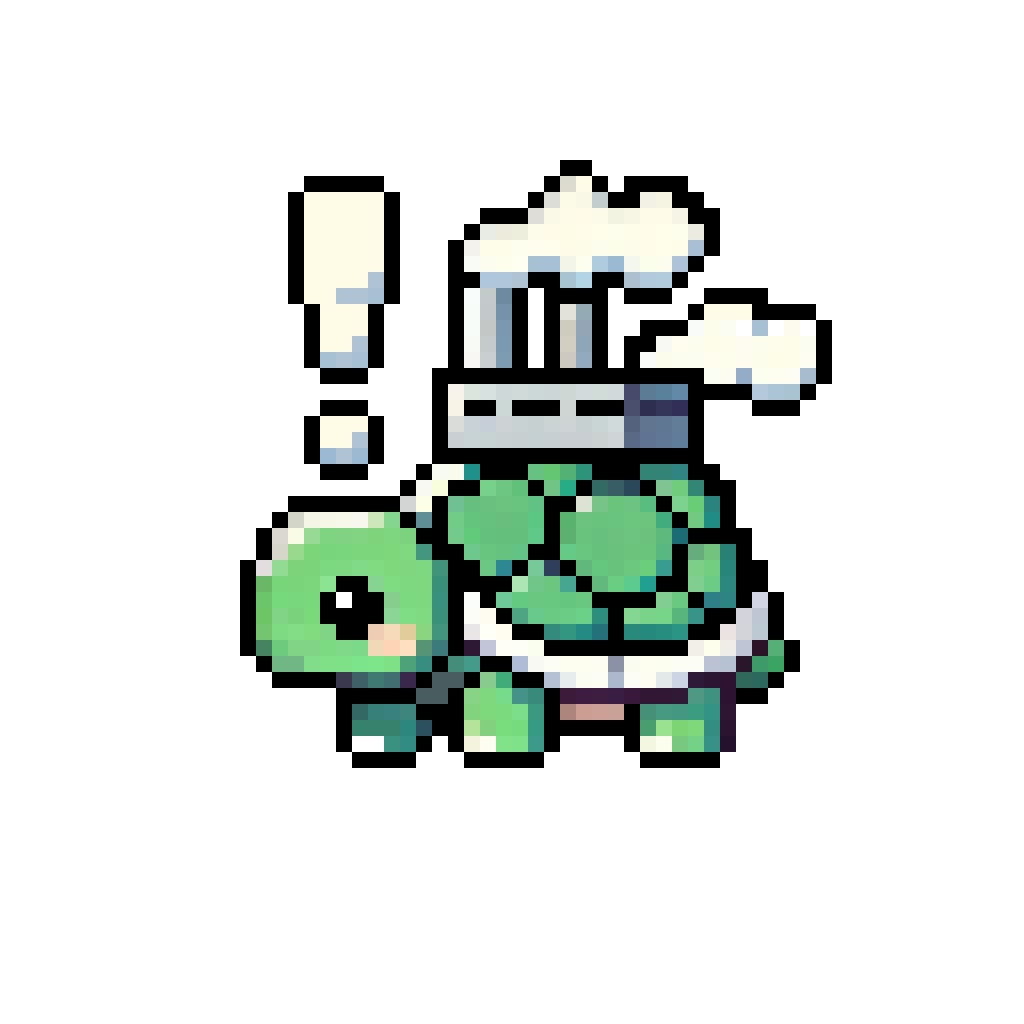
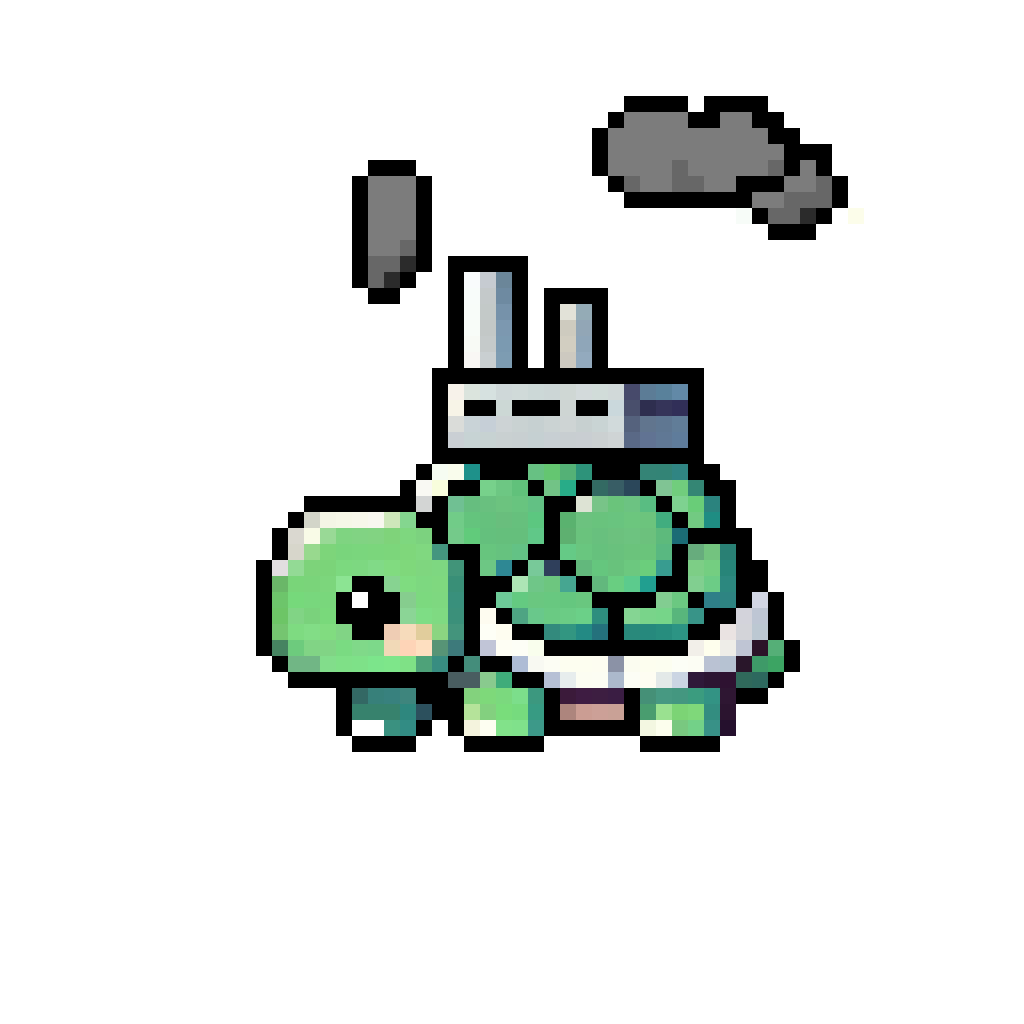
新增操弄測試

Changed region(s): [[0.2188, 0.0938, 0.8438, 0.75], [0.5938, 0.6562, 0.7188, 0.75], [0.5, 0.6562, 0.5312, 0.6875]]

diff --git a/src/components/AnotherFormPage.jsx b/src/components/AnotherFormPage.jsx
@@ -1,0 +1,111 @@
+import React, { useRef, useState } from "react";
+import MC from "../assets/MC.json";
+import projectSetting from "../assets/Setting";
+
+const AnotherFormPage = ({ addInfo, nextStage }) => {
+    const [lock, setLock] = useState(projectSetting.lockPage);
+    const [responses, setResponses] = useState({});
+    const examRef = useRef({
+        petRelation: [0, 0],
+    });
+    const handleSubmit = () => {
+        addInfo("petRelation", examRef.current.petRelation);
+        nextStage();
+    };
+
+    const checkFinished = () => {
+        if (!examRef.current.petRelation.includes(0)) {
+            setLock(false);
+        } else {
+            console.log(examRef.current);
+        }
+    };
+
+    const handleResponseChange = (name, statementIndex, value) => {
+        examRef.current[name][statementIndex] = value;
+        setResponses({
+            ...responses,
+            [`${name}_${statementIndex}`]: value,
+        });
+        checkFinished();
+    };
+
+    const LikertOptions = (name, statementIndex) => {
+        return (
+            <>
+                {[...Array(7)].map((_, index) => (
+                    <td
+                        key={index}
+                        className="radio"
+                        onClick={() =>
+                            handleResponseChange(
+                                name,
+                                statementIndex,
+                                index + 1
+                            )
+                        }
+                    >
+                        <input
+                            type="radio"
+                            value={index + 1}
+                            onChange={() =>
+                                handleResponseChange(
+                                    name,
+                                    statementIndex,
+                                    index + 1
+                                )
+                            }
+                            checked={
+                                responses[`${name}_${statementIndex}`] ===
+                                index + 1
+                            }
+                        />
+                    </td>
+                ))}
+            </>
+        );
+    };
+
+    return (
+        <>
+            <div className="ExamPage">
+                {MC.questions.map((section, sectionIndex) => (
+                    <table key={section.name} className="likert">
+                        <thead>
+                            <tr>
+                                <th></th>
+                                <th className="likertHead">非常不同意</th>
+                                <th className="likertHead">不同意</th>
+                                <th className="likertHead">稍微不同意</th>
+                                <th className="likertHead">中立</th>
+                                <th className="likertHead">稍微同意</th>
+                                <th className="likertHead">同意</th>
+                                <th className="likertHead">非常同意</th>
+                            </tr>
+                        </thead>
+                        <tbody>
+                            {section.statements.map(
+                                (statement, statementIndex) => (
+                                    <tr key={statementIndex}>
+                                        <td className="statement">
+                                            {statement}
+                                        </td>
+                                        {LikertOptions(
+                                            section.name,
+                                            statementIndex
+                                        )}
+                                    </tr>
+                                )
+                            )}
+                        </tbody>
+                    </table>
+                ))}
+            </div>
+            <button className="nextBt" onClick={handleSubmit} disabled={lock}>
+                下一步
+            </button>
+        </>
+    );
+};
+
+export default AnotherFormPage;

diff --git a/src/components/LikertScale.jsx b/src/components/LikertScale.jsx
@@ -53,23 +53,26 @@ const LikertScale = ({ examRef, checkFinished }) => {
         <>
             {DV.questions.map((section, sectionIndex) => (
                 <table key={section.name} className="likert">
-                    <tr>
-                        <th></th>
-                        <th className="likertHead">非常不同意</th>
-                        <th className="likertHead">不同意</th>
-                        <th className="likertHead">稍微不同意</th>
-                        <th className="likertHead">中立</th>
-                        <th className="likertHead">稍微同意</th>
-                        <th className="likertHead">同意</th>
-                        <th className="likertHead">非常同意</th>
-                    </tr>
-
-                    {section.statements.map((statement, statementIndex) => (
-                        <tr key={statementIndex}>
-                            <td className="statement">{statement}</td>
-                            {LikertOptions(section.name, statementIndex)}
+                    <thead>
+                        <tr>
+                            <th></th>
+                            <th className="likertHead">非常不同意</th>
+                            <th className="likertHead">不同意</th>
+                            <th className="likertHead">稍微不同意</th>
+                            <th className="likertHead">中立</th>
+                            <th className="likertHead">稍微同意</th>
+                            <th className="likertHead">同意</th>
+                            <th className="likertHead">非常同意</th>
                         </tr>
-                    ))}
+                    </thead>
+                    <tbody>
+                        {section.statements.map((statement, statementIndex) => (
+                            <tr key={statementIndex}>
+                                <td className="statement">{statement}</td>
+                                {LikertOptions(section.name, statementIndex)}
+                            </tr>
+                        ))}
+                    </tbody>
                 </table>
             ))}
         </>

diff --git a/src/components/LearningTestPage.jsx b/src/components/LearningTestPage.jsx
@@ -1,25 +1,22 @@
 import React, { useEffect, useState } from "react";
 import VARK from "../assets/VARK.json";
+import projectSetting from "../assets/Setting";
 
 const VarkQuiz = ({ nextStage, addVARKResults }) => {
     const [answers, setAnswers] = useState(
         Array(VARK.questions.length).fill(null)
     );
     const [result, setResult] = useState({ V: 0, A: 0, R: 0, K: 0 });
-    const [lock, setLock] = useState(true);
+    const [lock, setLock] = useState(projectSetting.lockPage);
 
     const handleSubmit = () => {
-        if (!answers.includes(null)) {
-            const maxScore = Math.max(result.V, result.A, result.R, result.K);
-            const primaryVark = Object.keys(result).find(
-                (key) => result[key] === maxScore
-            );
-            alert(`你的主要學習方式是: ${primaryVark}`);
-            addVARKResults(result);
-            nextStage();
-        } else {
-            alert("請完成所有問題");
-        }
+        const maxScore = Math.max(result.V, result.A, result.R, result.K);
+        const primaryVark = Object.keys(result).find(
+            (key) => result[key] === maxScore
+        );
+        alert(`你的主要學習方式是: ${primaryVark}`);
+        addVARKResults(result);
+        nextStage();
     };
 
     useEffect(() => {

diff --git a/src/assets/Pet1/Pet1.js b/src/assets/Pet1/Pet1.js
@@ -10,13 +10,15 @@ import walk_1 from "./Pet_1_walk_1.png";
 import walk_2 from "./Pet_1_walk_2.png";
 import walk_3 from "./Pet_1_walk_3.png";
 
-// import click_0 from "./Pet_1_click_0.png";
+import click_0 from "./Pet_1_click_0.png";
 import click_1 from "./Pet_1_click_1.png";
 import click_2 from "./Pet_1_click_2.png";
 import click_3 from "./Pet_1_click_3.png";
 import click_4 from "./Pet_1_click_4.png";
 import click_5 from "./Pet_1_click_5.png";
 import click_6 from "./Pet_1_click_6.png";
+import click_7 from "./Pet_1_click_7.png";
+import click_8 from "./Pet_1_click_8.png";
 
 import back_0 from "./Pet_1_back_0.png";
 import back_1 from "./Pet_1_back_1.png";
@@ -24,8 +26,18 @@ import back_1 from "./Pet_1_back_1.png";
 const Pet1 = {
     idleAnime: [idle_0, idle_1, idle_2, idle_3, idle_4, idle_5],
     walkAnime: [walk_0, walk_1, walk_2, walk_3],
-    clickAnime: [click_1, click_2, click_3, click_4, click_5, click_6, click_6],
-    holdAnime: [click_6],
+    clickAnime: [
+        click_0,
+        click_1,
+        click_2,
+        click_3,
+        click_4,
+        click_5,
+        click_6,
+        click_7,
+        click_8,
+    ],
+    holdAnime: [click_8],
     backAnime: [back_0, back_0, back_0, back_1],
 };
 

diff --git a/src/components/Pet.jsx b/src/components/Pet.jsx
@@ -32,6 +32,32 @@ const Pet = ({ connect, setting, recordRef }) => {
     const [direction, setDirection] = useState(0);
     const positionRef = useRef([0, 0]);
 
+    // 預加載圖片
+    const preloadImages = (imageArray) => {
+        imageArray.forEach((src) => {
+            const img = new Image();
+            img.src = src;
+        });
+    };
+    useEffect(() => {
+        const imagesToPreload = setting.courseRelated
+            ? [
+                  ...Pet1.idleAnime,
+                  ...Pet1.walkAnime,
+                  ...Pet1.clickAnime,
+                  ...Pet1.holdAnime,
+                  ...Pet1.backAnime,
+              ]
+            : [
+                  ...Pet2.idleAnime,
+                  ...Pet2.walkAnime,
+                  ...Pet2.clickAnime,
+                  ...Pet2.holdAnime,
+                  ...Pet2.backAnime,
+              ];
+        preloadImages(imagesToPreload);
+    }, [setting]);
+
     const speed = 1;
     const interval = 100;
 

diff --git a/src/components/CoursePage.jsx b/src/components/CoursePage.jsx
@@ -3,6 +3,7 @@ import video2 from "../assets/Course2.mp4";
 import VideoPlayer from "./VideoPlayer";
 import Pet from "./Pet";
 import { useRef, useEffect, useState } from "react";
+import projectSetting from "../assets/Setting";
 
 const CoursePage = ({ courseNum, pet, addPetStatus, nextStage }) => {
     const recordRef = useRef({ petClicked: 0, petDragged: 0, petCenter: 0 });
@@ -10,7 +11,7 @@ const CoursePage = ({ courseNum, pet, addPetStatus, nextStage }) => {
     const videoRef = useRef(null);
     const petRef = useRef(null);
 
-    const [lock, setLock] = useState(true);
+    const [lock, setLock] = useState(projectSetting.lockPage);
 
     const checkOverlap = () => {
         if (!videoRef.current || !petRef.current) return;

diff --git a/src/App.js b/src/App.js
@@ -7,6 +7,7 @@ import ExamPage from "./components/ExamPage";
 import SettingPage from "./components/SettingPage";
 import LearningTestPage from "./components/LearningTestPage";
 import InfoFormPage from "./components/InfoFormPage";
+import AnotherFormPage from "./components/AnotherFormPage";
 
 function App() {
     const [stage, setStage] = useState(0);
@@ -129,6 +130,12 @@ function App() {
                     addResults={addResults}
                     nextStage={nextStage}
                 />
+            ),
+        },
+        {
+            name: "問卷調查",
+            component: (
+                <AnotherFormPage nextStage={nextStage} addInfo={addInfo} />
             ),
         },
         {

diff --git a/src/components/PetIntroductionPage.jsx b/src/components/PetIntroductionPage.jsx
@@ -1,11 +1,12 @@
 import React, { useState } from "react";
 import { Pet1Intro } from "../assets/Pet1/Pet1";
 import { Pet2Intro } from "../assets/Pet2/Pet2";
+import projectSetting from "../assets/Setting";
 
 const PetIntroduction = ({ pet, nextStage }) => {
     const petIntro = pet.courseRelated ? Pet1Intro : Pet2Intro;
     const interactalbe = pet.interactivity;
-    const [lock, setLock] = useState(true);
+    const [lock, setLock] = useState(projectSetting.lockPage);
 
     return (
         <>

diff --git a/src/components/InfoFormPage.jsx b/src/components/InfoFormPage.jsx
@@ -1,8 +1,9 @@
 import React, { useState } from "react";
 import questionnaire from "../assets/BasicInfo.json";
+import projectSetting from "../assets/Setting";
 
 const InfoFormPage = ({ addInfo, nextStage }) => {
-    const [lock, setLock] = useState(false);
+    const [lock, setLock] = useState(projectSetting.lockPage);
     const [result, setResult] = useState({});
     const [otherInput, setOtherInput] = useState({}); // 用來儲存 "其他" 選項的輸入
 

diff --git a/src/components/ExamPage.jsx b/src/components/ExamPage.jsx
@@ -1,9 +1,10 @@
 import React, { useRef, useState } from "react";
 import Exam from "./Exam";
 import LikertScale from "./LikertScale";
+import projectSetting from "../assets/Setting";
 
 const ExamPage = ({ courseNum, addResults, nextStage }) => {
-    const [lock, setLock] = useState(true);
+    const [lock, setLock] = useState(projectSetting.lockPage);
     const examRef = useRef({
         retention: 0,
         transfer: 0,

diff --git a/src/components/IntroductionPage.jsx b/src/components/IntroductionPage.jsx
@@ -1,7 +1,8 @@
 import React, { useState } from "react";
+import projectSetting from "../assets/Setting";
 
 const Introduction = ({ nextStage }) => {
-    const [lock, setLock] = useState(true);
+    const [lock, setLock] = useState(projectSetting.lockPage);
 
     return (
         <>

diff --git a/src/components/VideoPlayer.jsx b/src/components/VideoPlayer.jsx
@@ -9,7 +9,6 @@ function VideoPlayer({ connect, link, setLock }) {
 
     const handleTogglePlayPause = () => {
         const video = videoRef.current;
-        setLock(false);
         if (isPlaying) {
             video.pause();
             setIsPlaying(false);
